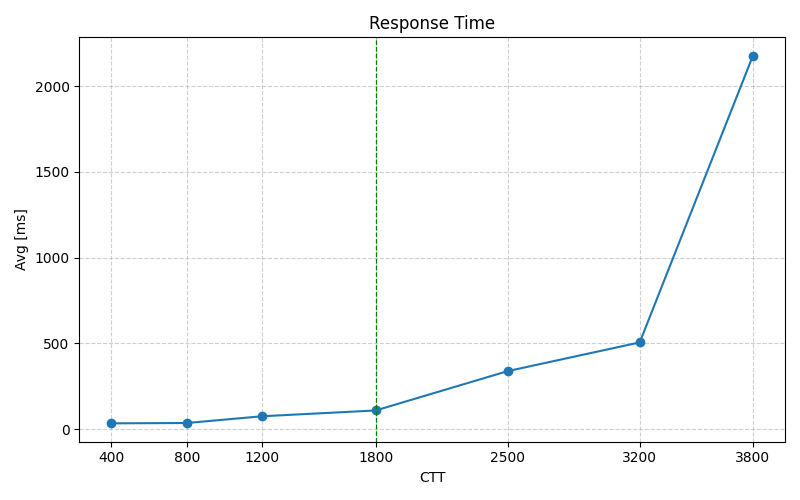
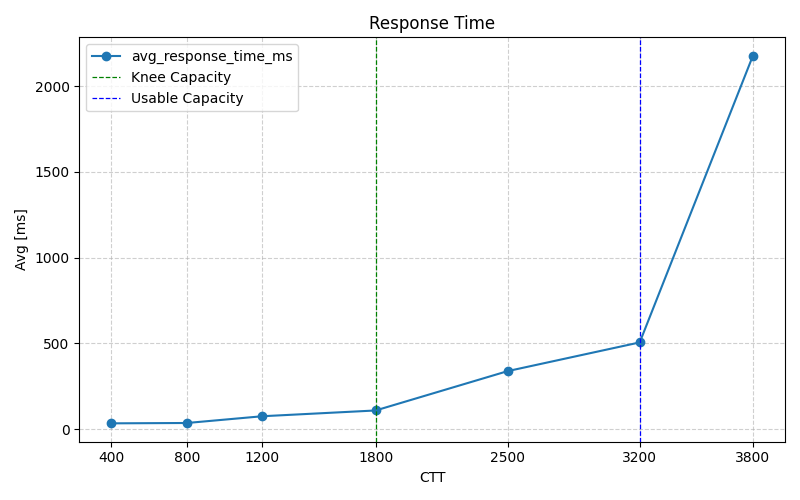
update 3.1 capacity test plots

Changed region(s): [[0.0938, 0.09, 0.375, 0.21]]

diff --git a/homework/3.1_capacity_test/capacity_test/test_capacity.py b/homework/3.1_capacity_test/capacity_test/test_capacity.py
@@ -68,20 +68,78 @@ def plot_grouped_summary(grouped_df, output_prefix="summary_plot"):
     # Sort by prefix
     grouped_df = grouped_df.sort_values("prefix")
     
-    # Get x for knee capacity
+    # Calculate knee capacity (max power)
+    # Knee Capacity = massimo valore della metrica di Power
     max_power_index = grouped_df["power"].idxmax()
-    x_for_max_power = grouped_df.loc[max_power_index, "prefix"]
+    knee_capacity = grouped_df.loc[max_power_index, "prefix"]
+    max_power_value = grouped_df.loc[max_power_index, "power"]
+    knee_throughput = grouped_df.loc[max_power_index, "throughput"]
+    knee_response_time = grouped_df.loc[max_power_index, "avg_response_time_ms"]
+    
+    # Calculate usable capacity
+    # Capacità Utilizzabile = punto dopo il quale la power comincia drasticamente a decrescere
+    # Cerchiamo il punto dopo la knee capacity dove la power è ancora accettabile
+    # (almeno 10% del valore massimo)
+    points_after_knee = grouped_df[grouped_df["prefix"] > knee_capacity].copy()
+    
+    if len(points_after_knee) > 0:
+        # Trova il punto dove la power scende sotto il 10% del massimo
+        threshold = max_power_value * 0.10
+        below_threshold = points_after_knee[points_after_knee["power"] < threshold]
+        
+        if len(below_threshold) > 0:
+            # Prendi il punto appena prima che scenda sotto la soglia
+            usable_idx = below_threshold.index[0]
+            # Trova l'indice precedente nel dataframe originale
+            original_indices = grouped_df.index.tolist()
+            pos = original_indices.index(usable_idx)
+            if pos > 0:
+                usable_idx = original_indices[pos - 1]
+        else:
+            # Se tutti i punti dopo knee sono sopra la soglia, prendi l'ultimo
+            usable_idx = points_after_knee.index[-1]
+        
+        usable_capacity_actual = grouped_df.loc[usable_idx, "prefix"]
+        usable_throughput = grouped_df.loc[usable_idx, "throughput"]
+        usable_response_time = grouped_df.loc[usable_idx, "avg_response_time_ms"]
+        usable_power = grouped_df.loc[usable_idx, "power"]
+    else:
+        # Se non ci sono punti dopo knee, usa knee stesso
+        usable_capacity_actual = knee_capacity
+        usable_throughput = knee_throughput
+        usable_response_time = knee_response_time
+        usable_power = max_power_value
+    
+    print("\n" + "="*60)
+    print("CAPACITY ANALYSIS RESULTS")
+    print("="*60)
+    print(f"\nKnee Capacity (Maximum Power):")
+    print(f"  - Definizione: Massimo valore della metrica di Power")
+    print(f"  - CTT: {knee_capacity:.0f}")
+    print(f"  - Power: {max_power_value:.4f}")
+    print(f"  - Throughput: {knee_throughput:.2f} req/s")
+    print(f"  - Avg Response Time: {knee_response_time:.2f} ms")
+    print(f"\nCapacità Utilizzabile:")
+    print(f"  - Definizione: Punto dopo il quale la power")
+    print(f"    comincia drasticamente a decrescere")
+    print(f"  - CTT: {usable_capacity_actual:.0f}")
+    print(f"  - Power: {usable_power:.4f}")
+    print(f"  - Throughput: {usable_throughput:.2f} req/s")
+    print(f"  - Avg Response Time: {usable_response_time:.2f} ms")
+    print("="*60 + "\n")
 
     # --- Plot Average Response Time ---
-    plot_metrics(grouped_df, "avg_response_time_ms", plot_dir, f"{output_prefix}_avg_response_time", "CTT", "Avg [ms]", "Response Time", axvline_x=x_for_max_power)
+    plot_metrics(grouped_df, "avg_response_time_ms", plot_dir, f"{output_prefix}_avg_response_time", "CTT", "Avg [ms]", "Response Time", axvline_x=knee_capacity, axvline_x2=usable_capacity_actual)
 
     # --- Plot Throughput ---
-    plot_metrics(grouped_df, "throughput", plot_dir, f"{output_prefix}_throughput", "CTT", "Avg", "Throughput", axvline_x=x_for_max_power)
+    plot_metrics(grouped_df, "throughput", plot_dir, f"{output_prefix}_throughput", "CTT", "Avg", "Throughput", axvline_x=knee_capacity, axvline_x2=usable_capacity_actual)
 
     # --- Plot Power ---
-    plot_metrics(grouped_df, "power", plot_dir, f"{output_prefix}_power", "CTT", "Avg", "Power", axvline_x=x_for_max_power)
+    plot_metrics(grouped_df, "power", plot_dir, f"{output_prefix}_power", "CTT", "Avg", "Power", axvline_x=knee_capacity, axvline_x2=usable_capacity_actual)
 
-    print(f"✅ Line plots saved as {output_prefix}_avg_response_time.png and {output_prefix}_throughput.png")
+    print(f"✅ Line plots saved in {plot_dir}/")
+    
+    return knee_capacity, usable_capacity_actual
 
 
 if __name__ == "__main__":
@@ -90,19 +148,22 @@ if __name__ == "__main__":
     jmeter_dir = os.path.join(script_dir, "jmeter")
     
     csv_files = glob.glob(os.path.join(jmeter_dir, "*.csv"))
-    # print(csv_files)
+    print(f"Found {len(csv_files)} CSV files in jmeter directory")
 
     results = []
     for file in csv_files:
         metrics = process_csv(file)
         results.append(metrics)
 
-    # Save results into a summary CSV
+    # Save results into a summary CSV in the script directory
+    summary_path = os.path.join(script_dir, "summary_results.csv")
     results_df = pd.DataFrame(results)
-    results_df.to_csv("homework/capacity_test/summary_results.csv", index=False)
+    results_df.to_csv(summary_path, index=False)
 
-    print("Summary written to summary_results.csv")
+    print(f"✅ Summary written to {summary_path}")
     
-    to_plot = process_summary(os.path.join(script_dir, "summary_results.csv"))
+    # Process summary and group by CTT values (averaging the 3 repetitions)
+    to_plot = process_summary(summary_path)
     
-    plot_grouped_summary(to_plot)
+    # Plot and calculate capacities
+    knee_capacity, usable_capacity = plot_grouped_summary(to_plot)

diff --git a/homework/3.1_capacity_test/capacity_test/common.py b/homework/3.1_capacity_test/capacity_test/common.py
@@ -3,7 +3,7 @@ import glob
 import os
 import matplotlib.pyplot as plt
 
-def plot_metrics(grouped_df, metrics, plot_dir, output_file_name, xLabel: str, yLabel: str, title: str, legend: bool = False, axvline_x = None,):
+def plot_metrics(grouped_df, metrics, plot_dir, output_file_name, xLabel: str, yLabel: str, title: str, legend: bool = False, axvline_x = None, axvline_x2 = None):
     plt.figure(figsize=(8, 5))
     # Plot each metric as a line
     for col in [metrics]:
@@ -20,7 +20,18 @@ def plot_metrics(grouped_df, metrics, plot_dir, output_file_name, xLabel: str, y
             color='green',
             linestyle='--',
             linewidth=0.9,
+            label='Knee Capacity'
         )
+    if axvline_x2:
+        plt.axvline(
+            x=axvline_x2,
+            color='blue',
+            linestyle='--',
+            linewidth=0.9,
+            label='Usable Capacity'
+        )
+    if axvline_x or axvline_x2:
+        plt.legend()
     plt.xticks(grouped_df["prefix"])
     plt.tight_layout()
     plt.savefig(f"{plot_dir}/{output_file_name}.png")
